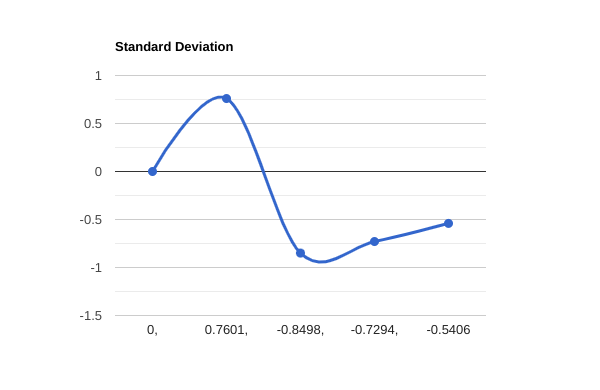
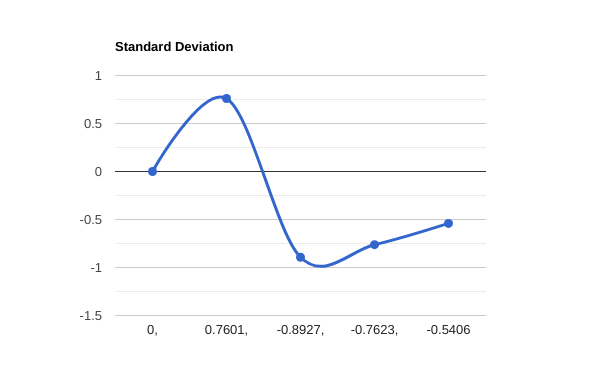
Deployed 0f00162d with MkDocs version: 1.1.2

diff --git a/heuristics/index.html b/heuristics/index.html
@@ -284,7 +284,7 @@
 <li><a href="https://github.com/chesslablab/php-chess/blob/main/tests/unit/Eval/CompleteFunctionTest.php">Chess\Eval\CompleteFunction</a></li>
 <li><a href="https://github.com/chesslablab/php-chess/blob/main/tests/unit/Eval/FastFunctionTest.php">Chess\Eval\FastFunction</a></li>
 </ul>
-<p>The complete evaluation function is intended to be used for chess positions while the fast evaluation function is used for entire games.</p>
+<p>The fast evaluation function is convenient to evaluate entire games while the complete evaluation function is intended for specific chess positions as shown in the following example.</p>
 <pre><code class="language-php">use Chess\FenToBoardFactory;
 use Chess\Eval\CompleteFunction;
 
@@ -446,12 +446,12 @@ print_r($time);
 <p><img alt="Figure 2" src="https://raw.githubusercontent.com/chesslablab/php-chess/main/docs/heuristics_02.png" /></p>
 <p>The data is plotted in a way that is easy for chess players to understand and learn.</p>
 <h2 id="extract-chess-data">Extract Chess Data</h2>
-<p><a href="https://github.com/chesslablab/php-chess/blob/main/tests/unit/SanExtractorTest.php">Chess\SanExtractor</a> extracts oscillations data for further analysis like the following example.</p>
+<p><a href="https://github.com/chesslablab/php-chess/blob/main/tests/unit/SanExtractorTest.php">Chess\SanExtractor</a> extracts data from entire games like the following example.</p>
 <pre><code class="language-php">use Chess\SanExtractor;
-use Chess\Eval\CompleteFunction;
+use Chess\Eval\FastFunction;
 use Chess\Variant\Classical\Board;
 
-$f = new CompleteFunction();
+$f = new FastFunction();
 $board = new Board();
 $movetext = '1.e4 d5 2.exd5 Qxd5';
 </code></pre>
@@ -493,8 +493,6 @@ print_r($eval[4]);
     [27] =&gt; 0
     [28] =&gt; 0
     [29] =&gt; -0.022
-    [30] =&gt; 0
-    [31] =&gt; 0
 )
 </code></pre>
 <p><img alt="Figure 3" src="https://raw.githubusercontent.com/chesslablab/php-chess/main/docs/heuristics_03.png" /></p>
@@ -523,8 +521,8 @@ print_r($mean);
 (
     [0] =&gt; 0
     [1] =&gt; 0.1875
-    [2] =&gt; -0.1667
-    [3] =&gt; -0.3125
+    [2] =&gt; -0.125
+    [3] =&gt; -0.2813
     [4] =&gt; -0.0664
 )
 </code></pre>
@@ -538,8 +536,8 @@ print_r($sd);
 (
     [0] =&gt; 0
     [1] =&gt; 0.7601
-    [2] =&gt; -0.8498
-    [3] =&gt; -0.7294
+    [2] =&gt; -0.8927
+    [3] =&gt; -0.7623
     [4] =&gt; -0.5406
 )
 </code></pre>

diff --git a/index.html b/index.html
@@ -292,5 +292,5 @@
 
 <!--
 MkDocs version : 1.1.2
-Build Date UTC : 2025-01-15 17:01:43.864798+00:00
+Build Date UTC : 2025-01-15 17:38:52.346930+00:00
 -->
